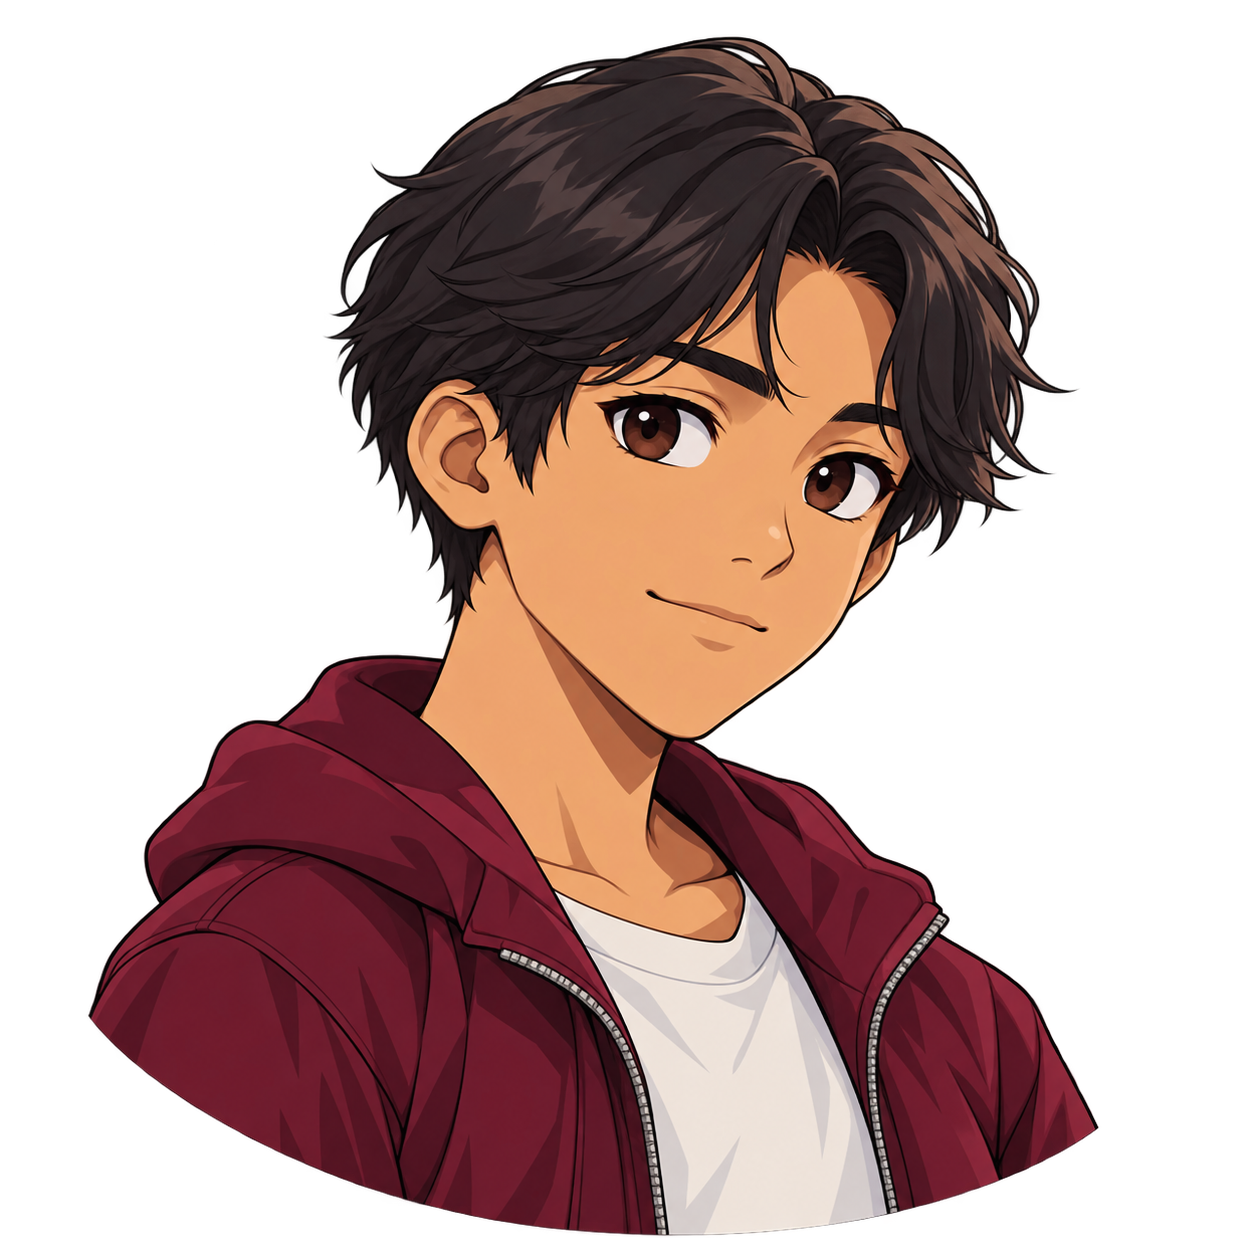
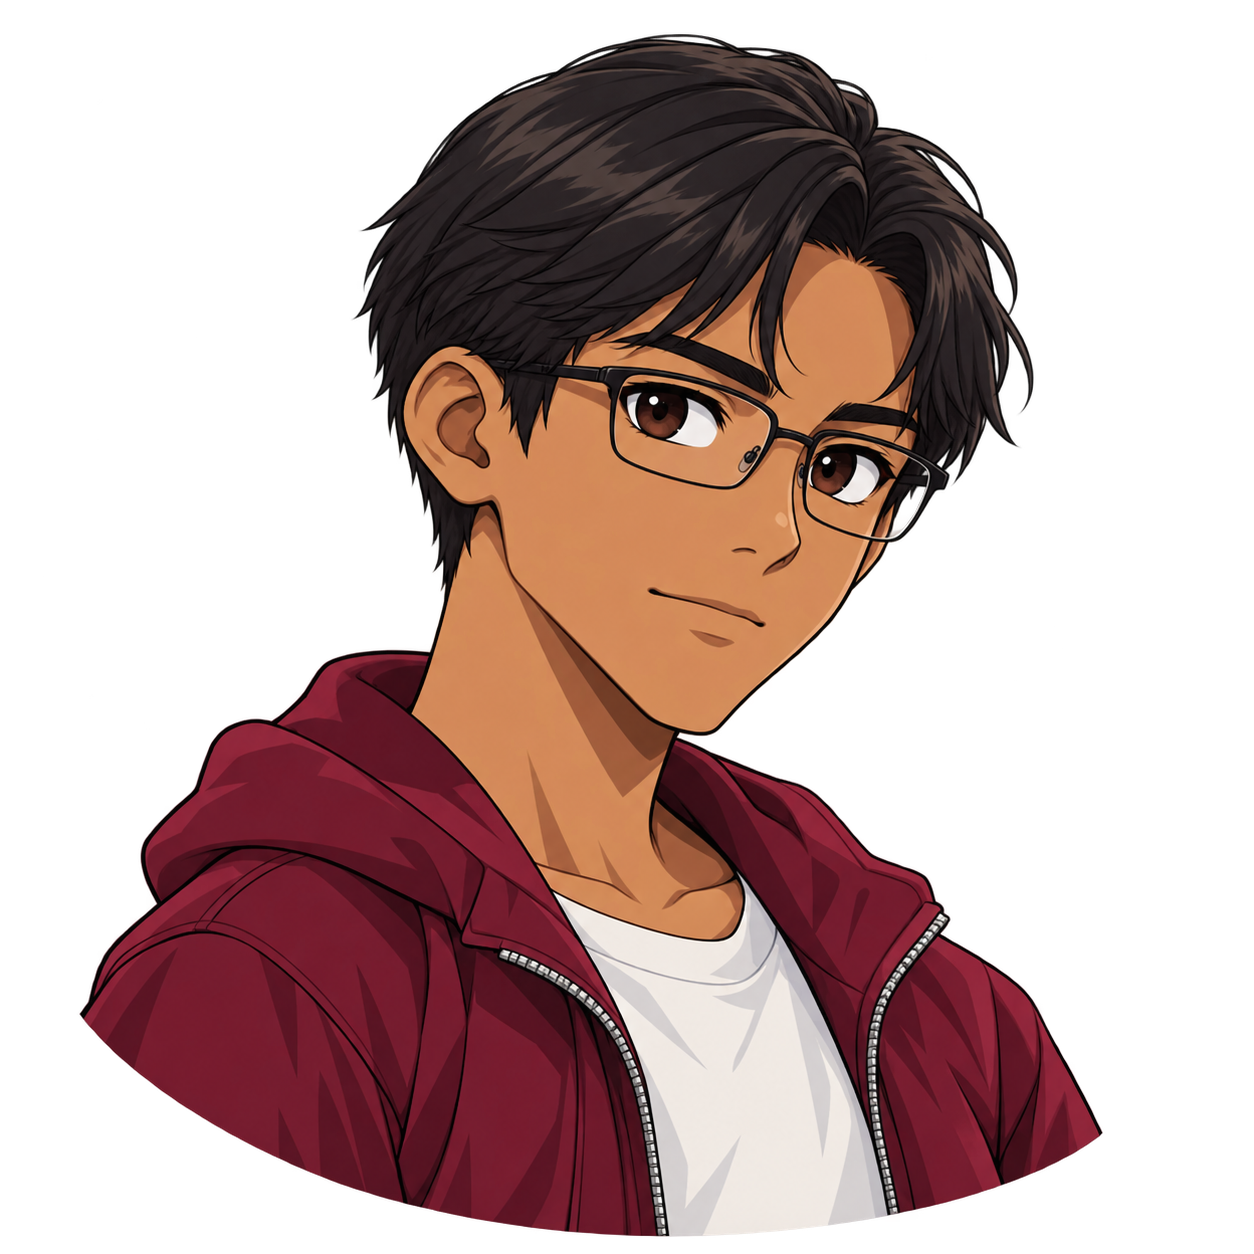
Differentiate courtyard characters and portraits

diff --git a/README.md b/README.md
@@ -62,7 +62,7 @@ npm run test:dashboard-browser
 
 ## QA técnico
 
-La [matriz P7 con evidencia por caso](docs/P7_QA_2026-10-27.md) registra qué funcionó en `0.7.0-preview` y qué sigue bloqueado por el guion/rúbrica definitivos, Supabase de desarrollo y staging. El build local actual es `0.11.0-preview`. El menú de pausa permite cambiar entre texto pequeño, mediano y grande, y ajustar la velocidad de los diálogos D0; una ventana menor de 768×448 pausa el juego y exige pulsar **Continuar** después de ampliarla. Los diálogos D0 guardan el nodo activo y el historial de la conversación actual antes de avanzar y se reanudan tras recargar. Mientras aparece una línea, un toque la revela completa; una vez visible, el siguiente avanza. Las respuestas D0 y de fragmentos D1–D4 requieren confirmación neutral antes de guardarse; **Esc/Volver** cancela sin modificar la ranura. También se recuperan el celular, el objetivo, la selección de clase y el nivel de pista si estaban abiertos.
+La [matriz P7 con evidencia por caso](docs/P7_QA_2026-10-27.md) registra qué funcionó en `0.7.0-preview` y qué sigue bloqueado por el guion/rúbrica definitivos, Supabase de desarrollo y staging. El build local actual es `0.12.0-preview`. El menú de pausa permite cambiar entre texto pequeño, mediano y grande, y ajustar la velocidad de los diálogos D0; una ventana menor de 768×448 pausa el juego y exige pulsar **Continuar** después de ampliarla. Los diálogos D0 guardan el nodo activo y el historial de la conversación actual antes de avanzar y se reanudan tras recargar. Mientras aparece una línea, un toque la revela completa; una vez visible, el siguiente avanza. Las respuestas D0 y de fragmentos D1–D4 requieren confirmación neutral antes de guardarse; **Esc/Volver** cancela sin modificar la ranura. También se recuperan el celular, el objetivo, la selección de clase y el nivel de pista si estaban abiertos.
 
 ## Entrega P8
 
@@ -73,7 +73,7 @@ El [procedimiento de construcción, staging y operación](docs/P8_OPERATIONS.md)
 - Recorrido técnico de Día 0 hasta el resultado del MOBA, tres ranuras locales y tests de narrativa y mecánicas básicas. Despertar, patio y chat grupal usan texto literal del [guion recuperado v0.2](docs/recovered/Guion_Literal_Recuperado_Ampliado_D0_D4_v0_2.md) en una **vista previa provisional**. La opción elegida se conserva en el guardado y el chat puede releerse en el celular.
 - P5 permite leer seis fragmentos D1–D4, elegir sus opciones literales y explorar cuatro extractos de finales desde un índice manual. Se guardan escena, línea y opción para reanudar la lectura. Las [lagunas de la fuente y requisitos de sustitución](docs/P5_SOURCE_GAPS.md) están documentados; este recorrido no asigna finales ni puntuación educativa.
 - Los objetos y personajes usan formas dibujadas por código como recursos provisionales; las especificaciones para sustituirlos están en [`docs/ASSETS.md`](docs/ASSETS.md).
-- Los diálogos D0 muestran retratos neutros provisionales de Sofi y sus cuatro amistades, generados con imagegen y incluidos en `assets/portraits/`. Falta el arte definitivo y el mapeo aprobado de expresiones por línea; consulta [`docs/ASSETS.md`](docs/ASSETS.md).
+- Los diálogos D0 muestran retratos neutros provisionales de Sofi y sus cuatro amistades, generados con imagegen y incluidos en `assets/portraits/`. Bruno y Sebas tienen rasgos más diferenciados; en el patio, los cuatro amigos se distinguen también por color, peinado y nombre. Falta el arte definitivo y el mapeo aprobado de expresiones por línea; consulta [`docs/ASSETS.md`](docs/ASSETS.md).
 - La música y cuatro efectos provisionales se generan de forma reproducible con `python scripts/generate_audio.py`; en Pausa se ajustan por separado y se guardan por ranura, también durante el MOBA. Los archivos y requisitos de reemplazo están en [`docs/ASSETS.md`](docs/ASSETS.md).
 - El archivo recuperado **no es el guion original exhaustivo**: faltan conectores, ramas, posiciones originales, nueve reacciones de Camila y fórmulas exactas de finales. Su [mapa de IDs](docs/recovered/Mapa_IDs_Narrativos_Propuesto_v0_1.json) es provisional. El juego no usa esos IDs para migrar partidas ni para puntuación educativa. Todos los JSON recuperados tienen `ready_for_publication: false`; `data/narrative/day_0_TEST_ONLY.json` se usa solo en pruebas.
 - El guardado Web usa IndexedDB con transacciones, bloqueo entre pestañas e idempotencia de solicitudes. El servicio tiene la operación atómica de snapshot más evento de decisión, pero las decisiones educativas aún no se conectan a ella porque sus IDs y ramas son provisionales. La integración Supabase está implementada y probada con servicio simulado y PostgreSQL embebido; falta comprobarla contra un proyecto real de desarrollo. No utilizar este prototipo para sesiones de investigación ni tratar sus guardados como datos definitivos.

diff --git a/docs/ASSETS.md b/docs/ASSETS.md
@@ -1,6 +1,6 @@
 # Recursos visuales provisionales y reemplazo
 
-`scripts/World.gd::_draw()` dibuja habitación, patio, computadora, objetos y Sofi; `scripts/moba/MOBAArena.gd::_draw()` dibuja arena, héroes, torres, bases y proyectiles. Estas formas son provisionales. Los cinco retratos neutros de diálogo fueron generados con imagegen y están incluidos en el proyecto. Se reemplazarán por arte definitivo sin cambiar los IDs de interacción ni las reglas del combate.
+`scripts/World.gd::_draw()` dibuja habitación, patio, computadora, objetos y personajes con colores, peinados y nombres provisionales distintos; `scripts/moba/MOBAArena.gd::_draw()` dibuja arena, héroes, torres, bases y proyectiles. Estas formas son provisionales. Los cinco retratos neutros de diálogo fueron generados con imagegen y están incluidos en el proyecto. Se reemplazarán por arte definitivo sin cambiar los IDs de interacción ni las reglas del combate.
 
 | Recurso a entregar | Formato y tamaño sugeridos | Uso y ubicación futura |
 |---|---|---|
@@ -18,6 +18,6 @@
 
 Para reemplazar, entregar los archivos con nombres de personaje/objeto y una licencia o autorización de uso. Mantener los sprites del mundo y MOBA en escala pixel art sin interpolación y legibles en el viewport lógico de 768×448. Los retratos ilustrados se escalan con filtro lineal. El arte de mundo y combate actual es deliberadamente esquemático: permite probar reglas y recorrido mientras se preparan los sprites definitivos.
 
-Los retratos actuales son PNG transparentes de 1254×1254 px y aparecen a 110×110 px junto al texto del Día 0. Sustituye `sofi_neutral.png`, `mateo_neutral.png`, `bruno_neutral.png`, `camila_neutral.png` y `sebas_neutral.png` en `assets/portraits/` conservando nombres y transparencia; o actualiza el mapa `PORTRAITS` en `scripts/Main.gd`. Se requieren cinco expresiones coherentes por personaje y un mapeo aprobado de expresión por línea para la versión definitiva. El guion recuperado no especifica ese mapeo, por lo que el prototipo muestra solo expresión neutra. Apariencia, peinado y ropa de estas imágenes son propuestas provisionales, no diseños aprobados. Los [prompts usados](PORTRAIT_PROMPTS.md) documentan cómo se generaron.
+Los retratos actuales son PNG transparentes de 1254×1254 px y aparecen a 110×110 px junto al texto del Día 0. Sustituye `sofi_neutral.png`, `mateo_neutral.png`, `bruno_neutral.png`, `camila_neutral.png` y `sebas_neutral.png` en `assets/portraits/` conservando nombres y transparencia; o actualiza el mapa `PORTRAITS` en `scripts/Main.gd`. Se requieren cinco expresiones coherentes por personaje y un mapeo aprobado de expresión por línea para la versión definitiva. El guion recuperado no especifica ese mapeo, por lo que el prototipo muestra solo expresión neutra. Apariencia, peinado, accesorios y ropa de estas imágenes son propuestas provisionales, no diseños aprobados. Los [prompts usados y revisados](PORTRAIT_PROMPTS.md) documentan cómo se generaron.
 
 Los seis WAV actuales fueron generados por `scripts/generate_audio.py` como sonidos provisionales propios. Para reemplazarlos, conserva los nombres y rutas o actualiza el mapa de `scripts/AudioManager.gd`; usa música libre de voces y con licencia verificable. Si cambias los bucles, comprueba que empalmen sin chasquidos y que los efectos sigan siendo opcionales. Los controles de Pausa permiten poner música o efectos en 0 %, así que ninguna señal educativa depende exclusivamente del sonido.

diff --git a/docs/PORTRAIT_PROMPTS.md b/docs/PORTRAIT_PROMPTS.md
@@ -22,3 +22,15 @@ Se añadió al prompt base una de estas descripciones:
 | `sebas_neutral.png` | Subject: Sebas, fictional 14-year-old Peruvian schoolboy, cheerful neutral expression, short tousled dark hair, mustard yellow hoodie over a light shirt; noticeably different facial features from Sofi and Mateo. |
 
 En todas las llamadas se solicitó `transparent_background: true`. Estas imágenes se pueden sustituir directamente por PNG transparentes autorizados con los mismos nombres. Para incorporar expresiones definitivas se necesita el arte correspondiente y la asignación aprobada de expresión a cada línea del guion.
+
+## Revisión de Bruno y Sebas — `0.12.0-preview`
+
+Se editaron sus PNG iniciales con imagegen y fondo transparente para distinguirlos mejor a 110×110 px. Los rasgos añadidos son igualmente provisionales.
+
+**Bruno:**
+
+> Use case: identity-preserve. Edit target: the attached Bruno dialogue portrait for the Centinela 2.0 game. Change only Bruno's face and hair enough to make him immediately distinct from Mateo and Sebas at a small 110x110 display size: a more angular jaw, deeper warm-brown skin tone, neatly cropped straight dark hair with a clear side part, thin rectangular eyeglasses, calm thoughtful neutral expression. Preserve the burgundy jacket, light shirt, shoulders-up three-quarter composition, anime-inspired flat-color rendering, crisp contours, image dimensions and genuinely transparent background. Keep him a fictional fully clothed 16-year-old Peruvian schoolboy. No new props, logos, text, watermark, border or scenery. The appearance remains provisional, not canonical.
+
+**Sebas:**
+
+> Use case: identity-preserve. Edit target: attached Sebas dialogue portrait for Centinela 2.0. Make Sebas clearly distinguishable from Mateo and Bruno at 110x110 display size while keeping him the same fictional 14-year-old Peruvian schoolboy: rounder youthful face, slightly wider cheerful smile, a few subtle freckles, shorter spiky dark hair with a lively asymmetrical fringe and visible ears. Preserve the mustard yellow hoodie, light shirt, shoulders-up front three-quarter composition, anime-inspired flat-color style, crisp contours, image dimensions and genuinely transparent background. Fully clothed, age-appropriate, nonsexualized. No extra props, logos, text, watermark, border or scenery. Provisional character appearance, not canonical.
